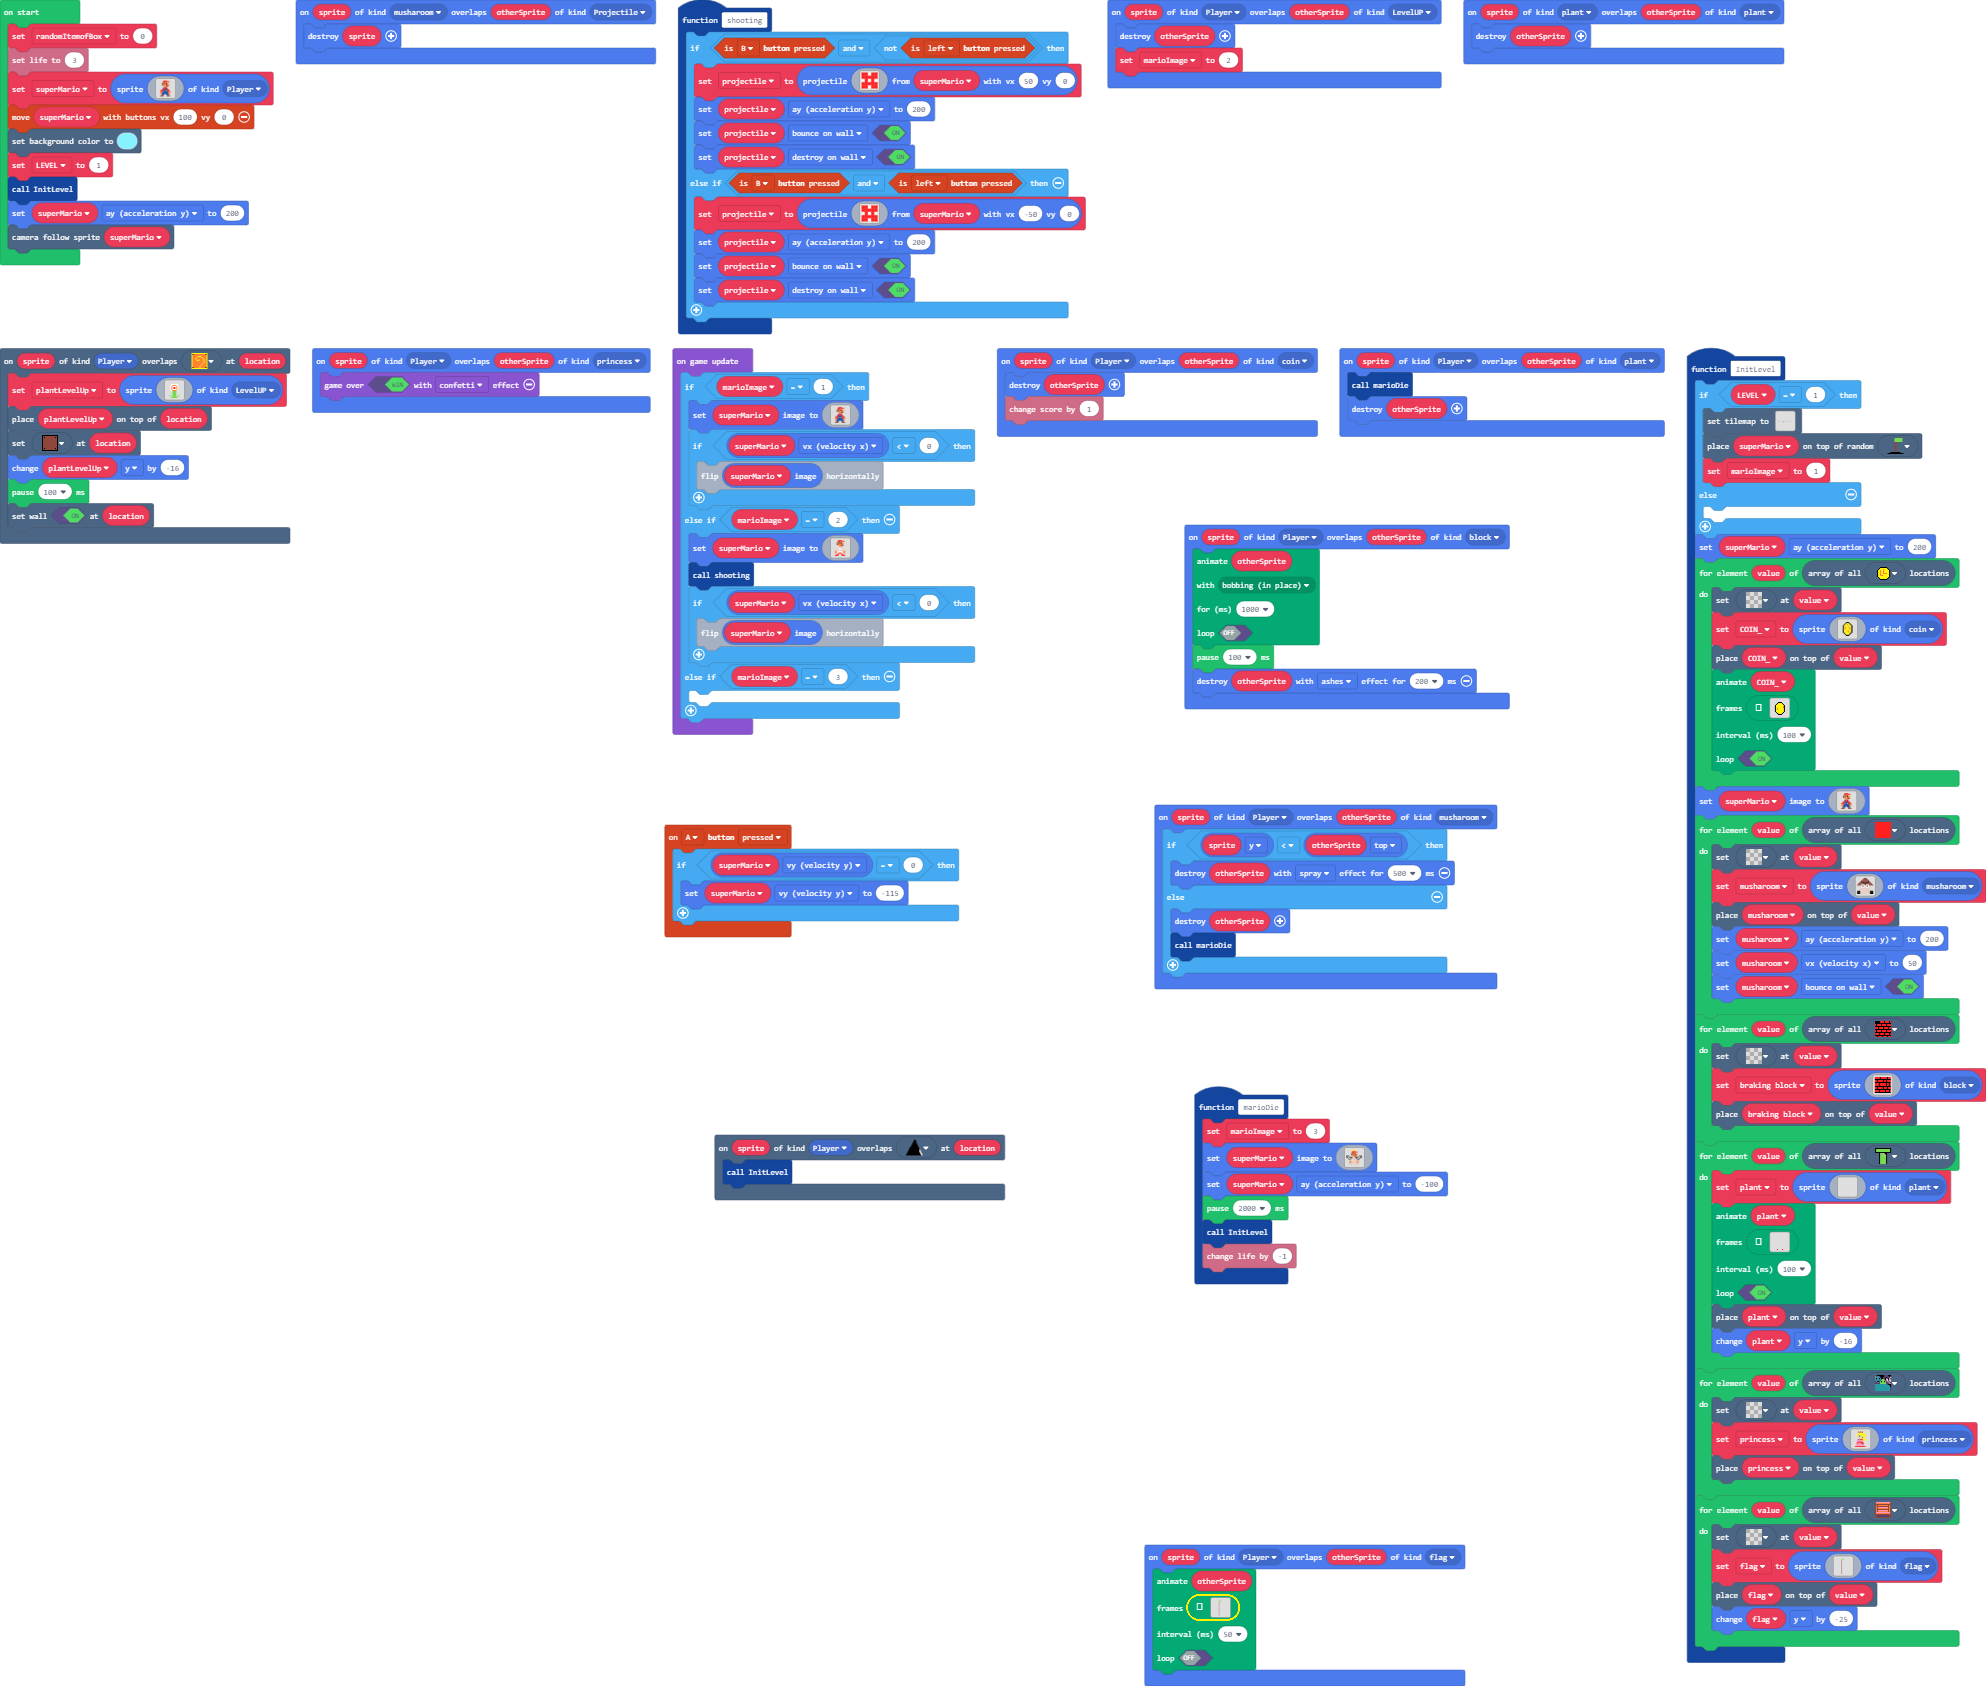
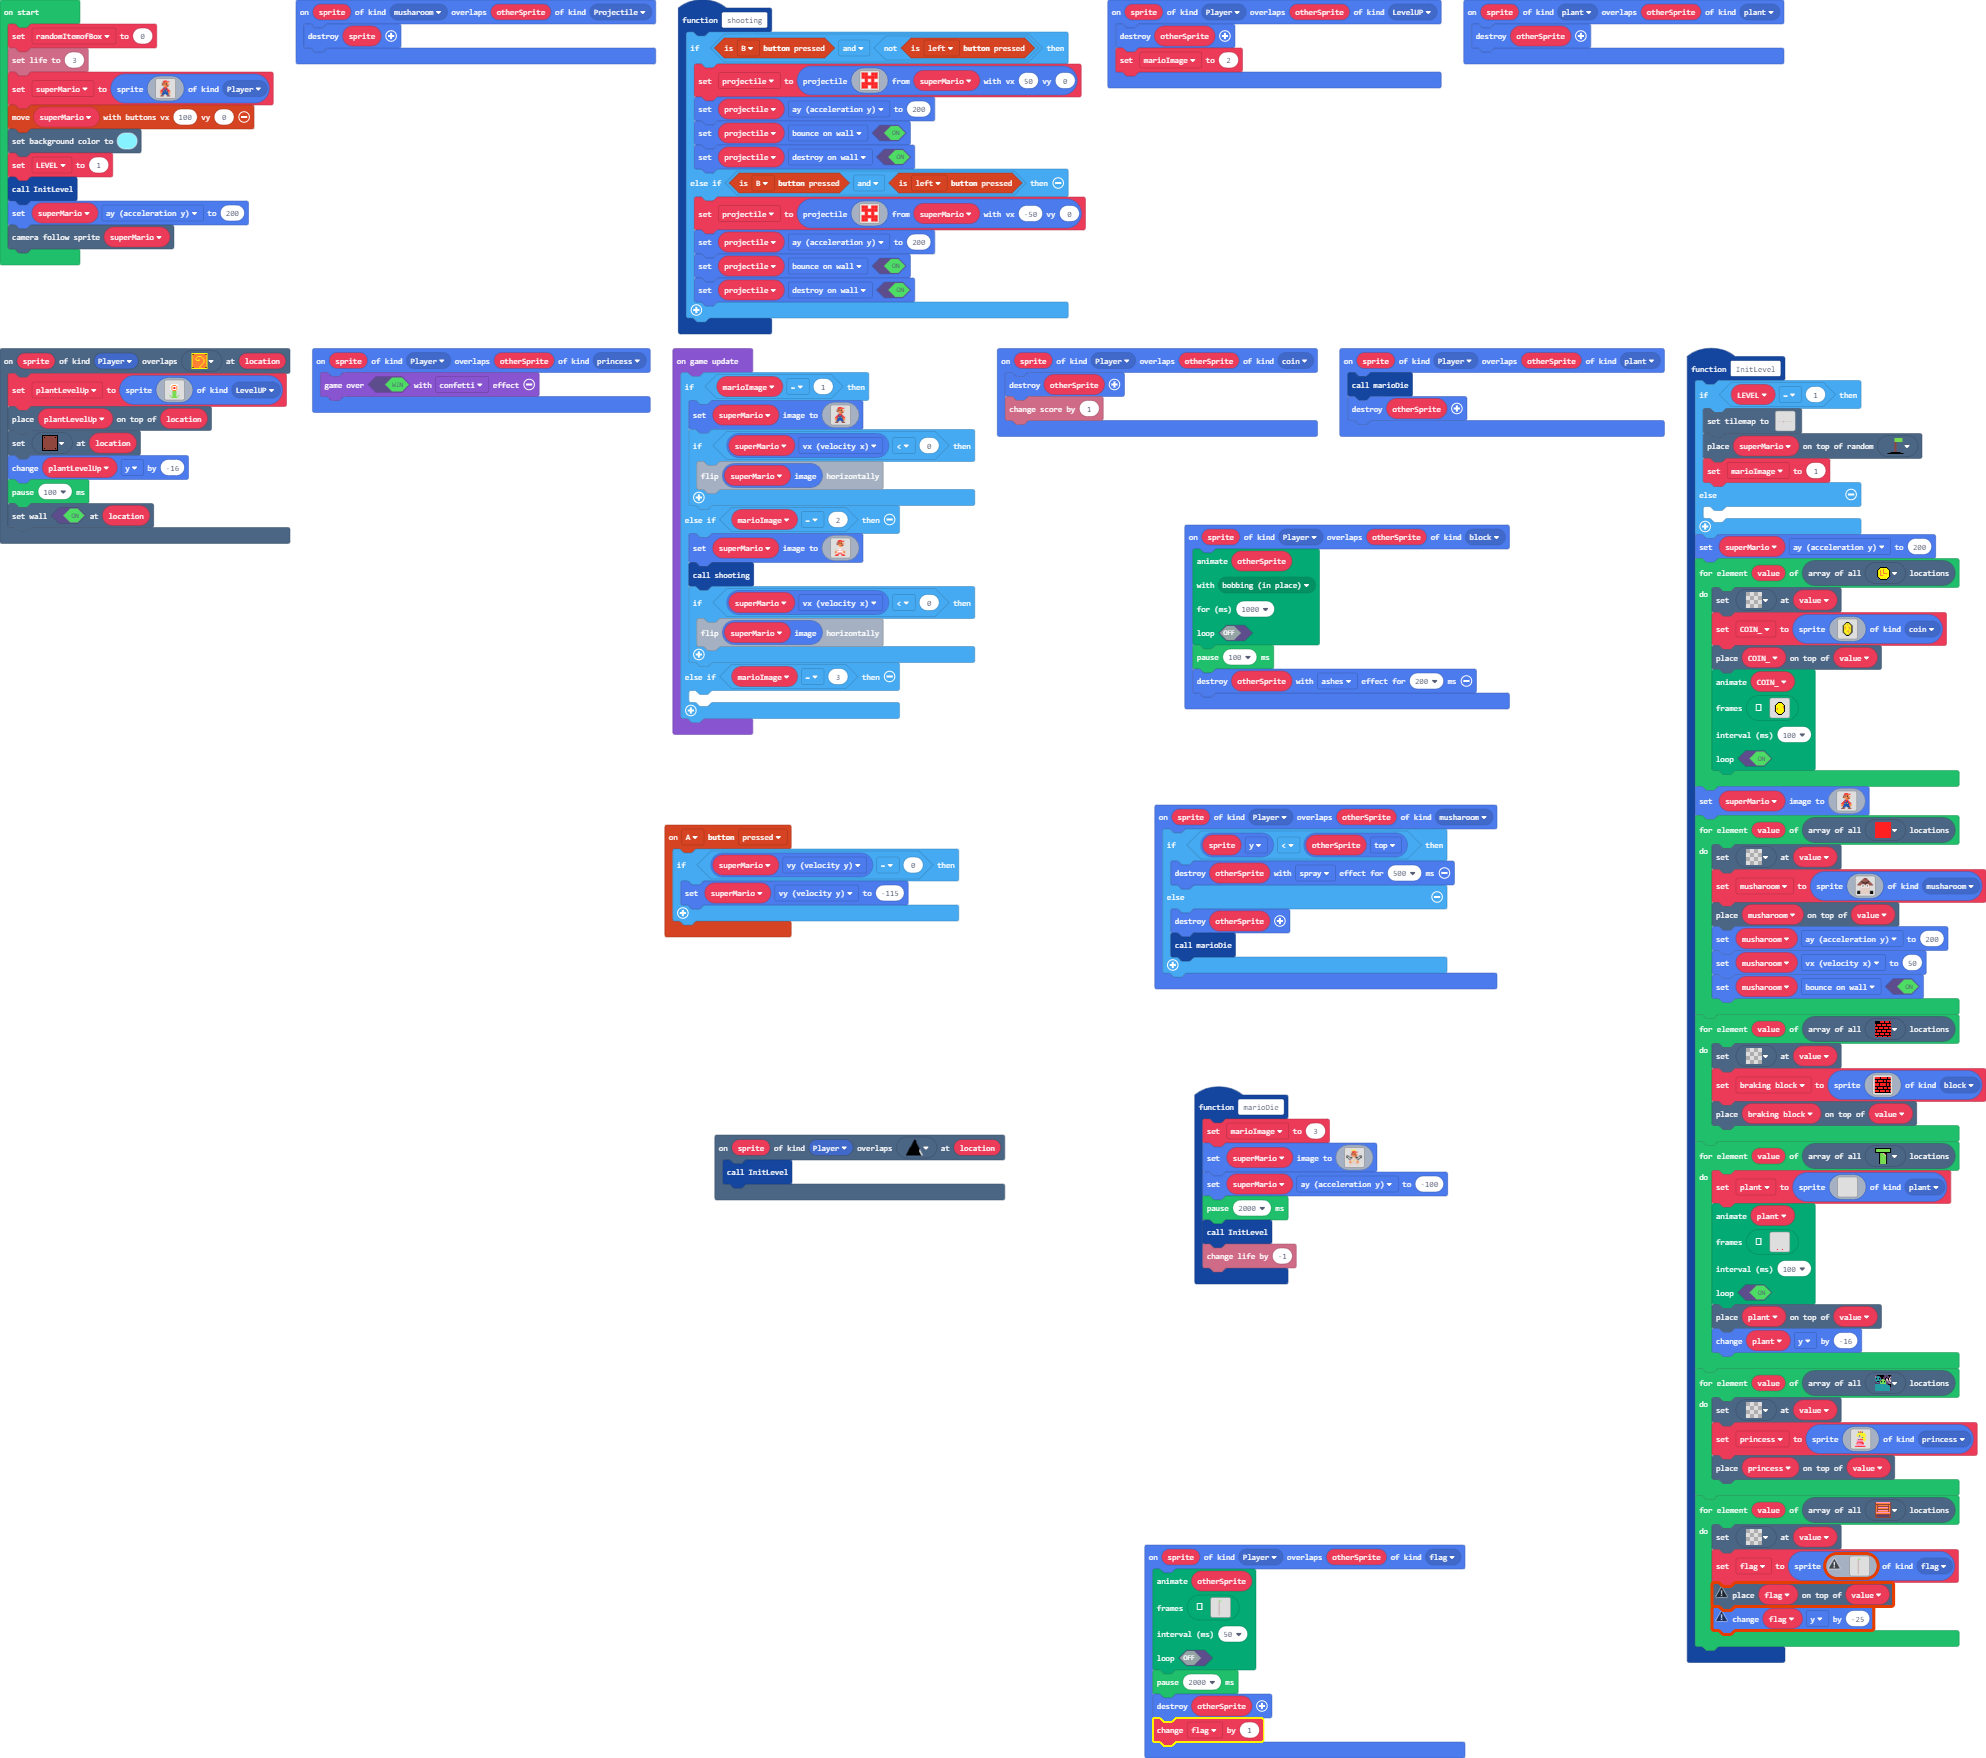
Update main.blocks, main.ts

diff --git a/main.ts b/main.ts
@@ -2053,10 +2053,84 @@ e e e . . . . . . . . . . . .
 e e e . . . . . . . . . . . . 
 e e e . . . . . . . . . . . . 
 e e e . . . . . . . . . . . . 
+`,img`
+e e e e . . . . . . . . . . . 
+e e e e . . . . . . . . . . . 
+e e e e . . . . . . . . . . . 
+e e e e . . . . . . . . . . . 
+e e e e . . . . . . . . . . . 
+e e e e . . . . . . . . . . . 
+e e e e . . . . . . . . . . . 
+e e e e . . . . . . . . . . . 
+e e e e . . . . . . . . . . . 
+e e e e . . . . . . . . . . . 
+e e e e . . . . . . . . . . . 
+e e e e . . . . . . . . . . . 
+e e e e . . . . . . . . . . . 
+e e e e . . . . . . . . . . . 
+e e e e . . . . . . . . . . . 
+e e e e . . . . . . . . . . . 
+e e e e . . . . . . . . . . . 
+e e e e . . . . . . . . . . . 
+e e e e . . . . . . . . . . . 
+e e e e . . . . . . . . . . . 
+e e e e . . . . . . . . . . . 
+e e e e . . . . . . . . . . . 
+e e e e . . . . . . . . . . . 
+e e e e . . . . . . . . . . . 
+e e e e . . . . . . . . . . . 
+e e e e . . . . . . . . . . . 
+e e e e . . . . . . . . . . . 
+e e e e . . . . . . . . . . . 
+e e e e . . . . . . . . . . . 
+e e e e . . . . . . . . . . . 
+e e e e . . . . . . . . . . . 
+e e e e . . . . . . . . . . . 
+e e e e . . . . . . . . . . . 
+e e e e . . . . . . . . . . . 
+e e e e . . . . . . . . . . . 
+e e e e . . . . . . . . . . . 
+e e e e . . . . . . . . . . . 
+e e e e . . . . . . . . . . . 
+e e e e . . . . . . . . . . . 
+e e e e . . . . . . . . . . . 
+e e e e . . . . . . . . . . . 
+e e e e . . . . . . . . . . . 
+e e e e . . . . . . . . . . . 
+e e e e . . . . . . . . . . . 
+e e e e . . . . . . . . . . . 
+e e e e . . . . . . . . . . . 
+e e e e . . . . . . . . . . . 
+e e e e . . . . . . . . . . . 
+e e e e . . . . . . . . . . . 
+e e e e . . . . . . . . . . . 
+e e e e . . . . . . . . . . . 
+e e e e . . . . . . . . . . . 
+e e e e . . . . . . . . . . . 
+e e e e . . . . . . . . . . . 
+e e e e . . . . . . . . . . . 
+e e e e . . . . . . . . . . . 
+e e e e . . . . . . . . . . . 
+e e e e . . . . . . . . . . . 
+e e e e . . . . . . . . . . . 
+e e e e . . . . . . . . . . . 
+e e e e . . . . . . . . . . . 
+7 e e e . . . . . . . . . . . 
+7 7 7 . . . . . . . . . . . . 
+7 7 7 7 7 . . . . . . . . . . 
+7 7 7 7 7 7 7 . . . . . . . . 
+7 7 7 7 7 7 7 7 . . . . . . . 
+7 7 7 7 7 7 7 7 7 . . . . . . 
+7 7 7 7 7 7 7 7 7 7 7 . . . . 
+7 7 7 7 7 7 7 7 7 7 7 7 7 . . 
+7 7 7 7 7 7 7 7 7 7 7 7 7 7 . 
 `],
     50,
     false
     )
+    pause(2000)
+    otherSprite.destroy()
+    flag += 1
 })
 function marioDie () {
     marioImage = 3
@@ -3380,7 +3454,6 @@ function shooting () {
     }
 }
 let projectile: Sprite = null
-let flag: Sprite = null
 let princess: Sprite = null
 let plant: Sprite = null
 let braking_block: Sprite = null
@@ -3388,6 +3461,7 @@ let musharoom: Sprite = null
 let COIN_: Sprite = null
 let plantLevelUp: Sprite = null
 let marioImage = 0
+let flag = 0
 let LEVEL = 0
 let superMario: Sprite = null
 let randomItemofBox = 0
